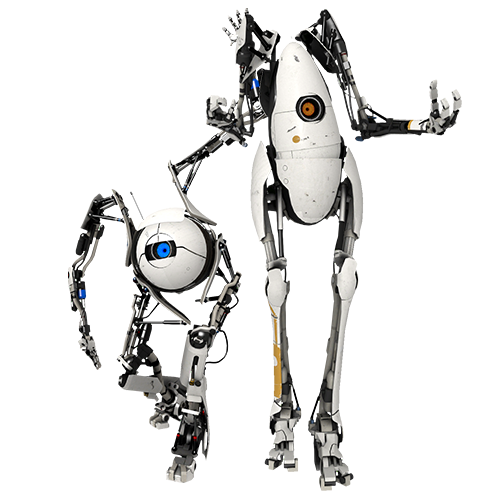
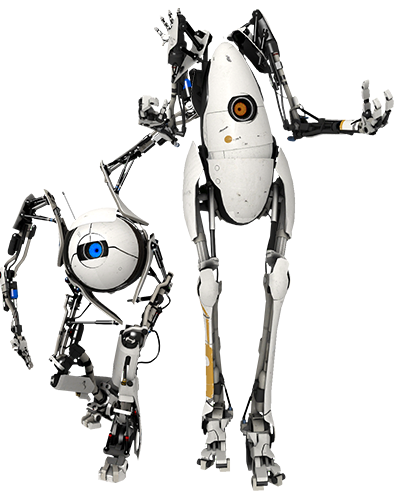
Añadida ficha Atlas y P-Body

Changed region(s): [[0.0, 0.0, 1.0, 0.99]]

diff --git a/index.html b/index.html
@@ -614,10 +614,15 @@
 				<div class="item-text"><img src="media/Cave_Johnson_Painting_4.png" alt="Caroline" style="max-width: 30%;">
 				<p>Personaje secundario con gran importancia en la hístoria del universo del juego.</p>
 				<p>Caroline fue la asistente personal de Cave Johnson, que cuando este murió, se volvió su sucesora.</p>
-				<p>No se conoce mucho sobre su personalidad, solo se la escucha en unas grabaciones que dejó Cave Johnson durante las Cámaras de Pruebas de la antigua Aperture.</p>
-				<p>Cuando se deja claro que Cave Johnson no podria vivir para ver su proyecto de inteligencia artificial, deja claro que Caroline tomará las riendas del complejo, y si fuera necesario, poner su cerebro en un ordenador.</p>
-				<p>Cuando Chell y GLaDOS son empujadas por Wheatley hacia las antiguas instalaciones de Aperture, GLaDOS reacciona de una forma emotiva a las grabaciones de Cave Johnson, dejando claro que GLaDOS y Caroline estan relaccionadas, cosa que fue confirmada cuando, al final de Portal 2, GLaDOS confiesa a Chell que ha descubierto donde esta Caroline dentro de ella, y acto seguido la borra.</p>
-				<p>En la canción de los créditos finales del juego, se puede escuchar "Ahora la pequeña Caroline también esta aquí." dando a entender que GLaDOS no ha borrado completamente a Caroline.</p>
+				<p>No se conoce mucho sobre su personalidad, solo se la escucha en unas grabaciones que dejó Cave Johnson durante las Cámaras de Pruebas de la 
+					antigua Aperture.</p>
+				<p>Cuando se deja claro que Cave Johnson no podria vivir para ver su proyecto de inteligencia artificial, deja claro que Caroline tomará las 
+					riendas del complejo, y si fuera necesario, poner su cerebro en un ordenador.</p>
+				<p>Cuando Chell y GLaDOS son empujadas por Wheatley hacia las antiguas instalaciones de Aperture, GLaDOS reacciona de una forma emotiva a las 
+					grabaciones de Cave Johnson, dejando claro que GLaDOS y Caroline estan relaccionadas, cosa que fue confirmada cuando, al final de Portal 2, 
+					GLaDOS confiesa a Chell que ha descubierto donde esta Caroline dentro de ella, y acto seguido la borra.</p>
+				<p>En la canción de los créditos finales del juego, se puede escuchar "Ahora la pequeña Caroline también esta aquí." dando a entender 
+					que GLaDOS no ha borrado completamente a Caroline.</p>
 				<p>En algunas lineas de voz que no fueron usadas, Caroline da a entender que no quiere ser transferida a un ordenador.</p>
 				<span style="clear:both"></span>
 				</div>
@@ -626,24 +631,63 @@
 				<h1 class="item-title">LOCUTOR</h1>
 				<div class="item-text">
 				<p>Forma parte de los acontecimientos de Portal 2.</p>
-				<p>El locutor es un sistema automatizado creado para monitorizar y anunciar los eventos de las instalaciones, como por ejemplo, la reactivación de GLaDOS, o los avisos de evacuación de las instalaciones por fusión del reactor.</p>
-				<p>El locutor toma el control de las instalaciones mientras no esta siendo supervisado por una IA o persona, con subrutinas muy básicas, manteniendo las instalaciones, y dando consejos y pautas a seguir a los sujetos de pruebas durante el transcurso de las mismas.</p>
+				<p>El locutor es un sistema automatizado creado para monitorizar y anunciar los eventos de las instalaciones, como por ejemplo, la reactivación 
+					de GLaDOS, o los avisos de evacuación de las instalaciones por fusión del reactor.</p>
+				<p>El locutor toma el control de las instalaciones mientras no esta siendo supervisado por una IA o persona, con subrutinas muy básicas, 
+					manteniendo las instalaciones, y dando consejos y pautas a seguir a los sujetos de pruebas durante el transcurso de las mismas.</p>
 				<p>Se diseñó para funcionar en condiciones de energía extremadamente baja.</p>
-				<p>El locutor no tiene forma física</p>
+				<p>El locutor no tiene forma física.</p>
 				</div>
 			</div>
 			<div class="item-container rat" id="Doug Rattmannn">
 				<h1 class="item-title rat">DOUG RATTMANN</h1>
 				<div class="item-text"><img src="media/Doug_Rattmann.jpg" alt="Caroline" style="max-width: 30%;">
 				<p>Personaje secundario que no aparece en el juego pero tiene una gran importancia en el transcurso de la historia de Portal y Portal 2.</p>
-				<p>Fue un cientifico de Aperture Science durante los eventos anteriores a Portal. Cuando GLaDOS inundó las instalaciones con Neurotoxinas, Doug Rattmann sobrevivió, siendo el unico empleado que se conoce que sobrevivió.</p>
-				<p>Doug Rattmann es un paranoico esquizofrénico dependiente a antipsicóticos, que cuando GLaDOS mató a todos los empleados, recorrio las instalaciones dejando a los sujetos de pruebas advertencias sobre GLaDOS en zonas de las Cámaras de pruebas con paneles abiertos que dan acceso a una pequeña zona de las instalaciones, donde se ve claramente que vivió en esas zonas durante unos dias.</p>
-				<p>En el comic "Portal 2: Lab Rat", se revela que es un empleado de Aperture Science que trabajó en la pistola de portales y que tiene dudas sobre GLaDOS y los núcleos de moralidad que se la acoplaron para evitar que destruyera las instalaciones, remarcando que siempre puedes ignorar tu conciencia. Sus miedos se justifican al ver que GLaDOS inundó las instalaciones con neurotoxinas.</p>
-				<p>Preprarado para las consecuencias, sobrevive al ataque de GLaDOS y se escabulle por las instalaciones dejando mensajes para los sujetos de pruebas, y pone a Chell como el primer sujeto de pruebas.</p>
-				<p>Despues de los suceos de Portal, Doug Rattmann activa el soporte vital de la cámara de criogenización de Chell, permitiendo que sea la única superviviente despues de haber estado criogenizada una cantidad indefinida de tiempo.</p>
+				<p>Fue un cientifico de Aperture Science durante los eventos anteriores a Portal. Cuando GLaDOS inundó las instalaciones con Neurotoxinas, 
+					Doug Rattmann sobrevivió, siendo el unico empleado que se conoce que sobrevivió.</p>
+				<p>Doug Rattmann es un paranoico esquizofrénico dependiente a antipsicóticos, que cuando GLaDOS mató a todos los empleados, recorrio las 
+					instalaciones dejando a los sujetos de pruebas advertencias sobre GLaDOS en zonas de las Cámaras de pruebas con paneles abiertos que 
+					dan acceso a una pequeña zona de las instalaciones, donde se ve claramente que vivió en esas zonas durante unos dias.</p>
+				<p>En el comic "Portal 2: Lab Rat", se revela que es un empleado de Aperture Science que trabajó en el Dispositivo de Portales y que tiene 
+					dudas sobre GLaDOS y los núcleos de moralidad que se la acoplaron para evitar que destruyera las instalaciones, remarcando que siempre 
+					puedes ignorar tu conciencia. Sus miedos se justifican al ver que GLaDOS inundó las instalaciones con neurotoxinas.</p>
+				<p>Preprarado para las consecuencias, sobrevive al ataque de GLaDOS y se escabulle por las instalaciones dejando mensajes para los sujetos 
+					de pruebas, y pone a Chell como el primer sujeto de pruebas.</p>
+				<p>Despues de los suceos de Portal, Doug Rattmann activa el soporte vital de la cámara de criogenización de Chell, permitiendo que sea 
+					la única superviviente despues de haber estado criogenizada una cantidad indefinida de tiempo.</p>
 				<span style="clear:both"></span>
 				</div>
 			</div>
+			<div class="item-container" id="coop">
+				<h1 class="item-title rat">P-BODY & ATLAS</h1>
+				<div class="item-text"><img src="media/coop-robots.png" alt="P-Body y Atlas" style="max-width: 30%;">
+				<p>Personaje secundario que no aparece en el juego pero tiene una gran importancia en el transcurso de la historia de Portal y Portal 2.</p>
+				<p>P-Body referido como Naranja y Atlas como Azul por GLaDOS, son unos androides bipedos diseñados por GLaDOS después de que Chell escapara
+					para sustituir a los sujetos de pruebas humanos. con la escusa de "No es nada persona, pero tu ME MATASTES, es justo".</p>
+				<p>Atlas fue diseñado basandose en un Núcleo de Personalidad, mientras que P-Body se basó en una Torreta Centinela. Cada androide tiene
+					un Dispositivo de portales diferente al que porta Chell, siendo de color Azul y Violeta para Atlas, y Amarillo y Rojo para P-Body.</p>
+				<p>Al ser destruidos, estos son reconstruidos automaticamente por una máquina ensambladora manteniendo todos sus recuerdos, y devueltos a la prueba.</p>
+				<p>En algun momento posterior a los eventos de Portal 2, P-Body y Atlas son activados por GLaDOS para completar la Iniciativa Cooperativa de Pruebas
+					de Aperture Science, nunca completado previamente por sujetos de pruebas humanos.</p>
+				<p>La campaña cooperativa sigue los eventos de Portal 2 después de que Chell fuera exiliada de Aperture Science, donde GLaDOS activó a estos
+					2 androides para enviarlos a unas cámaras de pruebas cooperativas, donde les preparará de forma indirecta para ir a una cámara abandonada
+					donde guardan en estado criogenico cientos de sujetos de pruebas.</p>
+				<p>Durante sus trazados de pruebas, GLaDOS eventualmente les saca del trazado para ir a ciertas zonas como oficinas, que tienen información
+					sobre las instalaciones y algunos datos necesarios para poder localizar y abrir la cámara de los sujetos de pruebas en las instalaciones
+					subteraneas.</p>
+				<p>Una vez encontrada y abierta la cámara, GLaDOS, euforica al encontrar esos sujetos de prueba, destruye a P-Body y Atlas con la excusa de
+					que experimentar con ellos no aporta nada porque si mueren son reconstruidos.</p>
+				<p>Una semana y media despues son reconstruidos por GLaDOS para ayudarla a detener a un intruso en las instalaciones, pero les miente, y les dice
+					que han pasado miles de años, que ha solucionado la ciencia, y que hacen pruebas por el amor al arte.<br>
+					Mientras P-Body y GLaDOS avanzan por un trazado de pruebas deteriorado con explosiones de fondo, GLaDOS confiesa que ha pasado una semana y media, 
+					y que les ha despertado porque es su ultima opcion, en esa semana ha matado a todos los sujetos de prueba entrenandolos para matar, y que les 
+					necesita para matar a una persona (refiriendose a Chell sin nombrarla), que estaba controlando las instalaciones desde un terminal prototipo de 
+					GLaDOS en la capa subterranea de las instalaciones, donde en realidad, es un pájaro que esta creando un nido sobre el teclado del terminal.</p>
+				<p></p>
+					<span style="clear:both"></span>
+				</div>
+			</div>
+			
 		</article>
 		<footer>
 			<div class="background-video">
